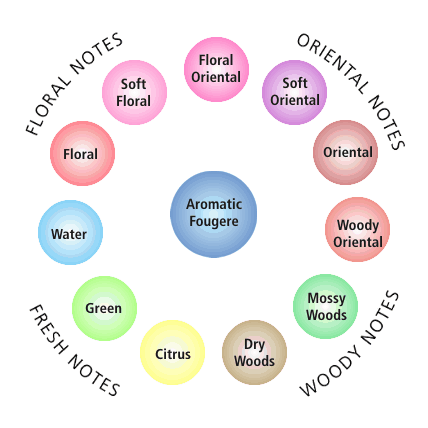
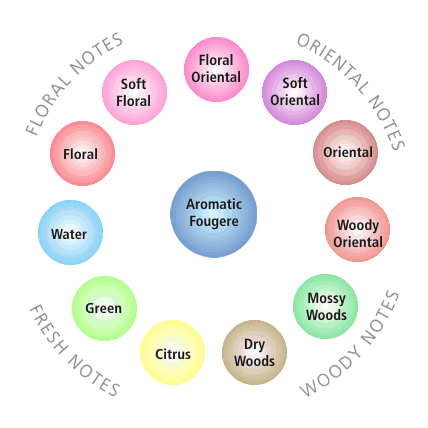
Atlas: drop the white and cream backgrounds for dark mode
Cut the paper and white corners out of the hero, the wine wheel and the
Fragrance Wheel diagram, clip the viewer tiles to the wheel, and add a
cutout option to Figure so transparent images aren't framed.

diff --git a/src/styles/global.css b/src/styles/global.css
@@ -673,6 +673,12 @@ h4 {
   border-radius: 2px;
 }
 
+/* A transparent image sits on the page itself; a frame would draw a box it doesn't have. */
+.prose .figure-cutout img {
+  border: 0;
+  border-radius: 0;
+}
+
 .prose table {
   width: 100%;
   border-collapse: collapse;
